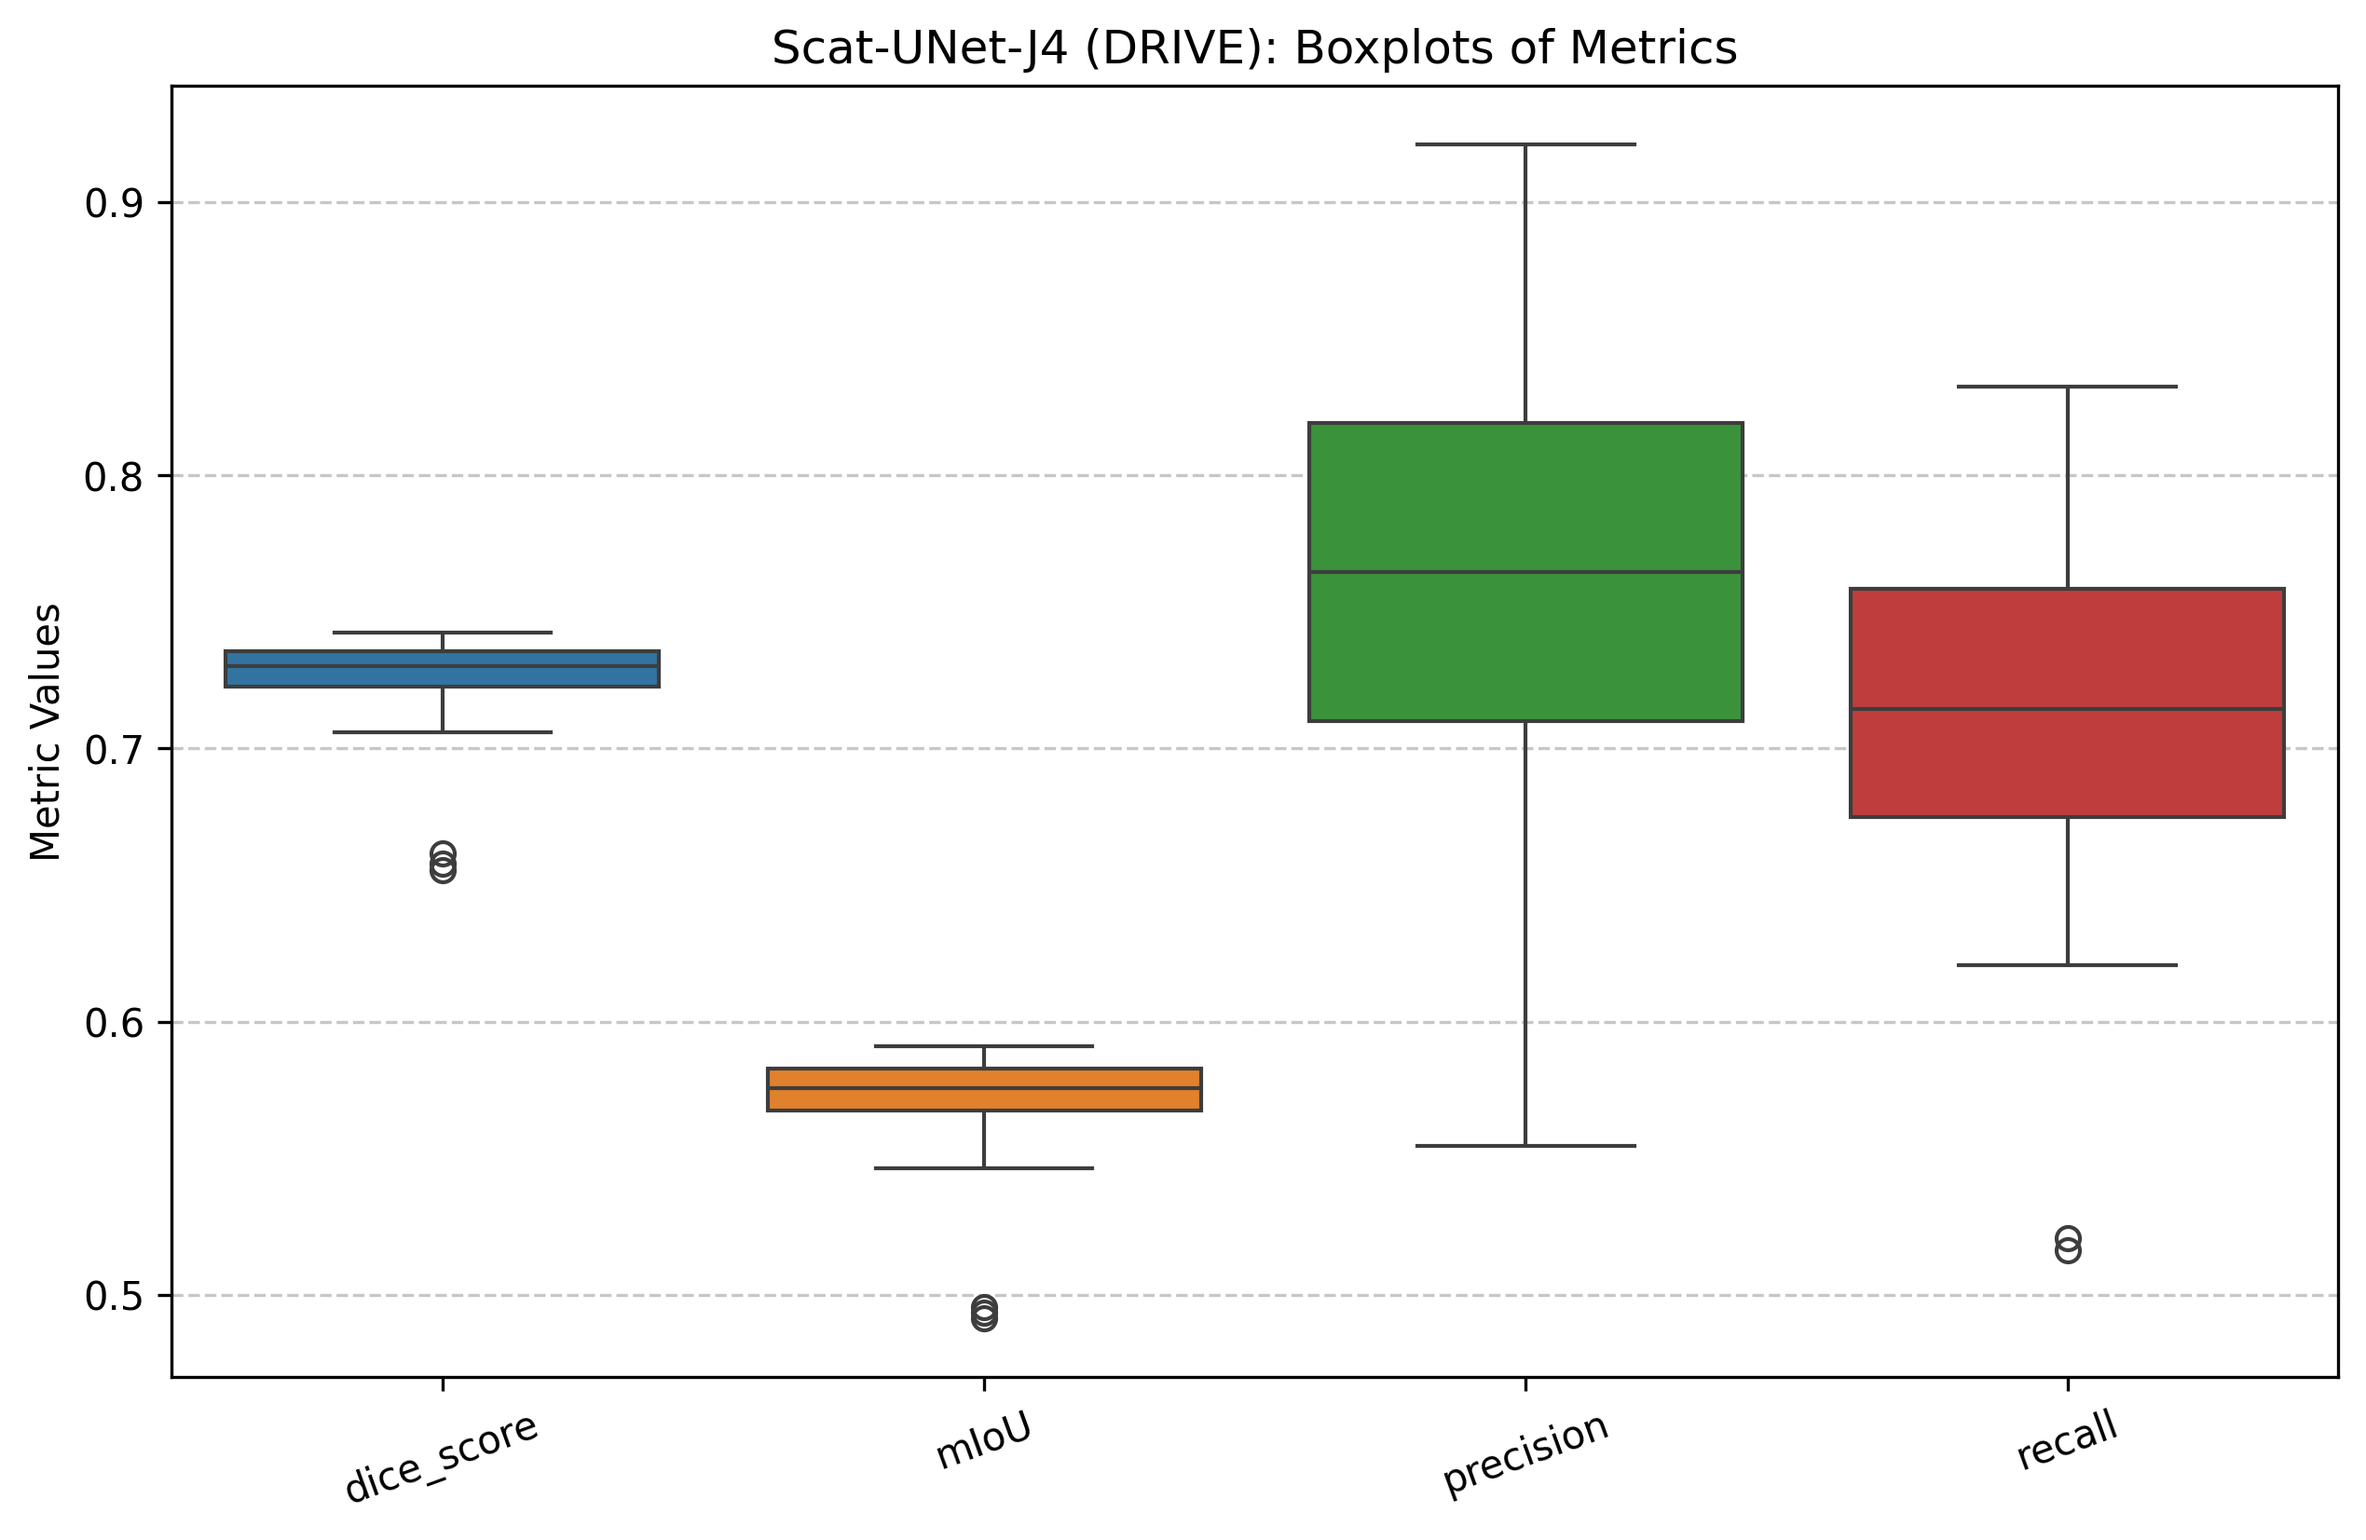
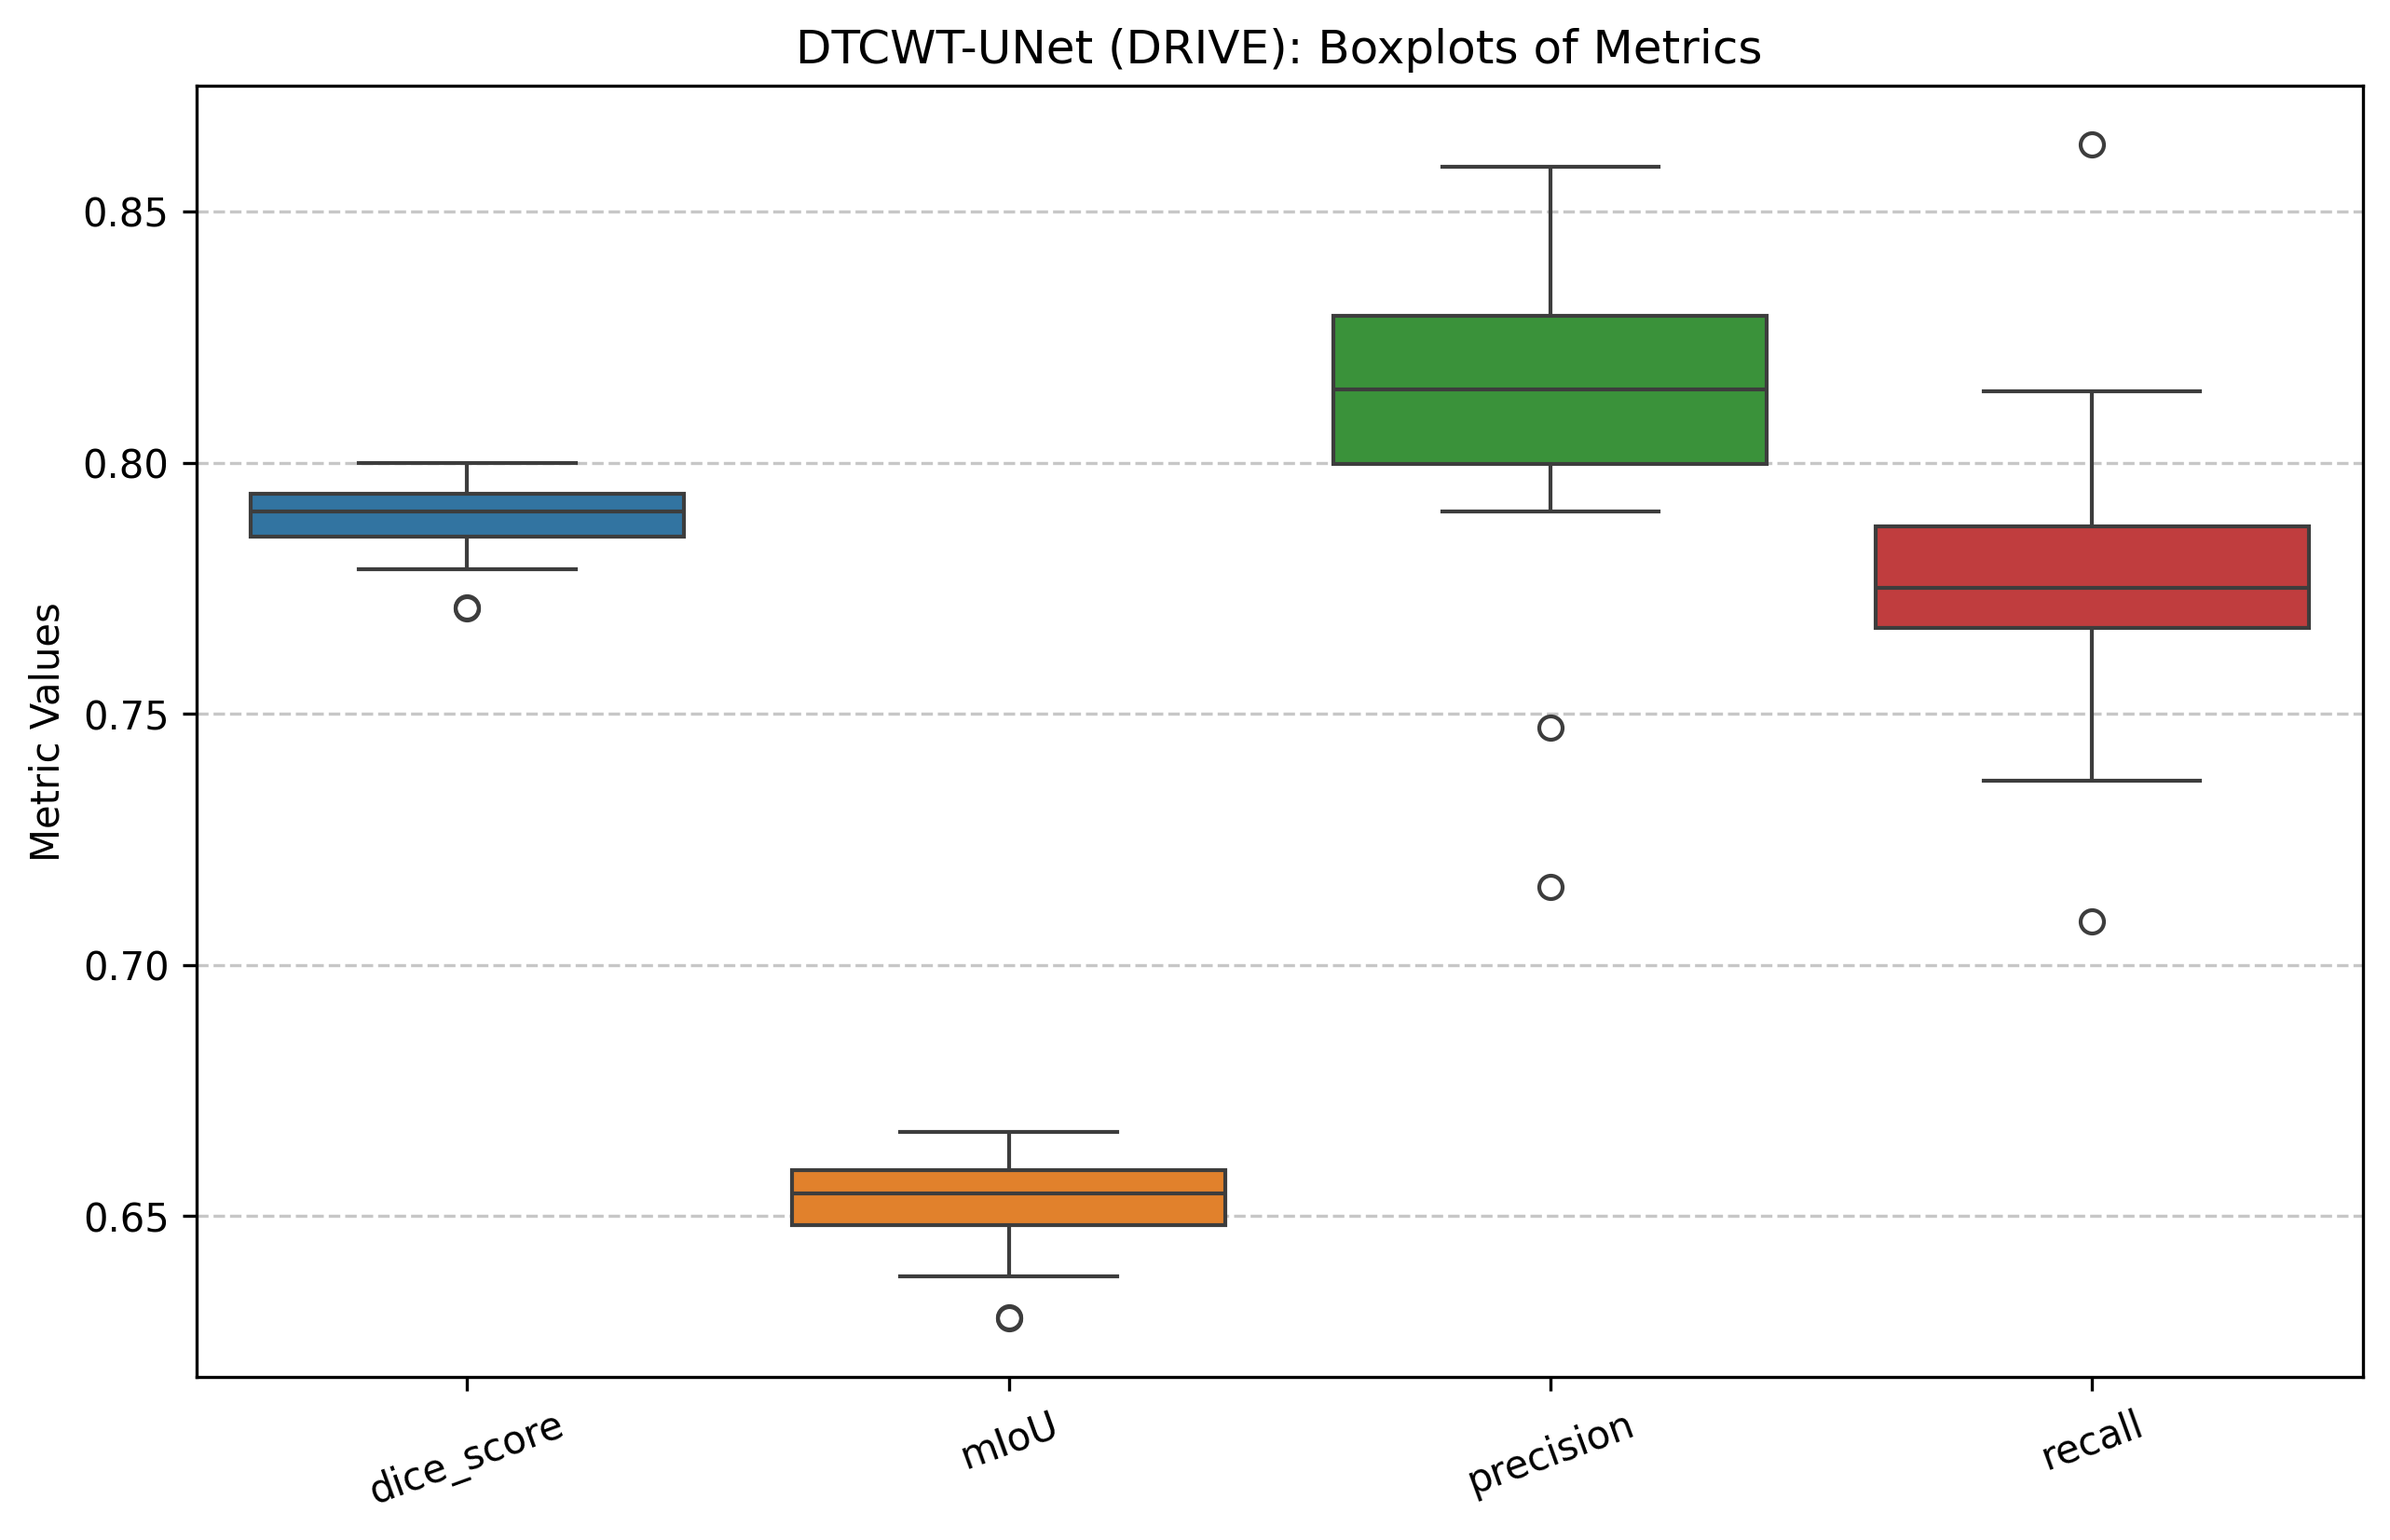
dtcwt drive results

diff --git a/analyse_results.py b/analyse_results.py
@@ -4,7 +4,7 @@ import matplotlib.pyplot as plt
 import seaborn as sns
 
 # File path
-file_path = "DRIVE_J4_training_results.txt"
+file_path = "DRIVE_dtcwt_training_results.txt"
 
 # Updated regex pattern to extract the two dictionaries
 dict_pattern = re.compile(r"Run \d+: (\{.*?\}), Credible Intervals: (\{.*?\})")
@@ -66,7 +66,7 @@ def plot_boxplots(metrics, filename="boxplot.png"):
     sns.boxplot(data=[metrics[key] for key in metrics.keys()])
     plt.xticks(ticks=range(len(metrics.keys())), labels=list(metrics.keys()), rotation=20)
     plt.ylabel("Metric Values")
-    plt.title("Scat-UNet-J4 (DRIVE): Boxplots of Metrics")
+    plt.title("DTCWT-UNet (DRIVE): Boxplots of Metrics")
     plt.grid(axis="y", linestyle="--", alpha=0.7)
     # Save the figure
     plt.savefig(filename, bbox_inches="tight", dpi=300)
@@ -121,7 +121,7 @@ def plot_credible_intervals(runs, filename="credible_intervals.png"):
 
     plt.xlabel("Run Number")
     plt.ylabel("Metric Value")
-    plt.title("Scat-UNet-J4 (DRIVE): Bayesian Credible Intervals Over Training Runs with Mean Values")
+    plt.title("DTCWT-UNet (DRIVE): Bayesian Credible Intervals Over Training Runs with Mean Values")
     plt.legend(loc='upper left', bbox_to_anchor=(1.05, 1), borderaxespad=0.)
     plt.grid(True, linestyle="--", alpha=0.7)
     plt.savefig(filename, bbox_inches="tight", dpi=300)
